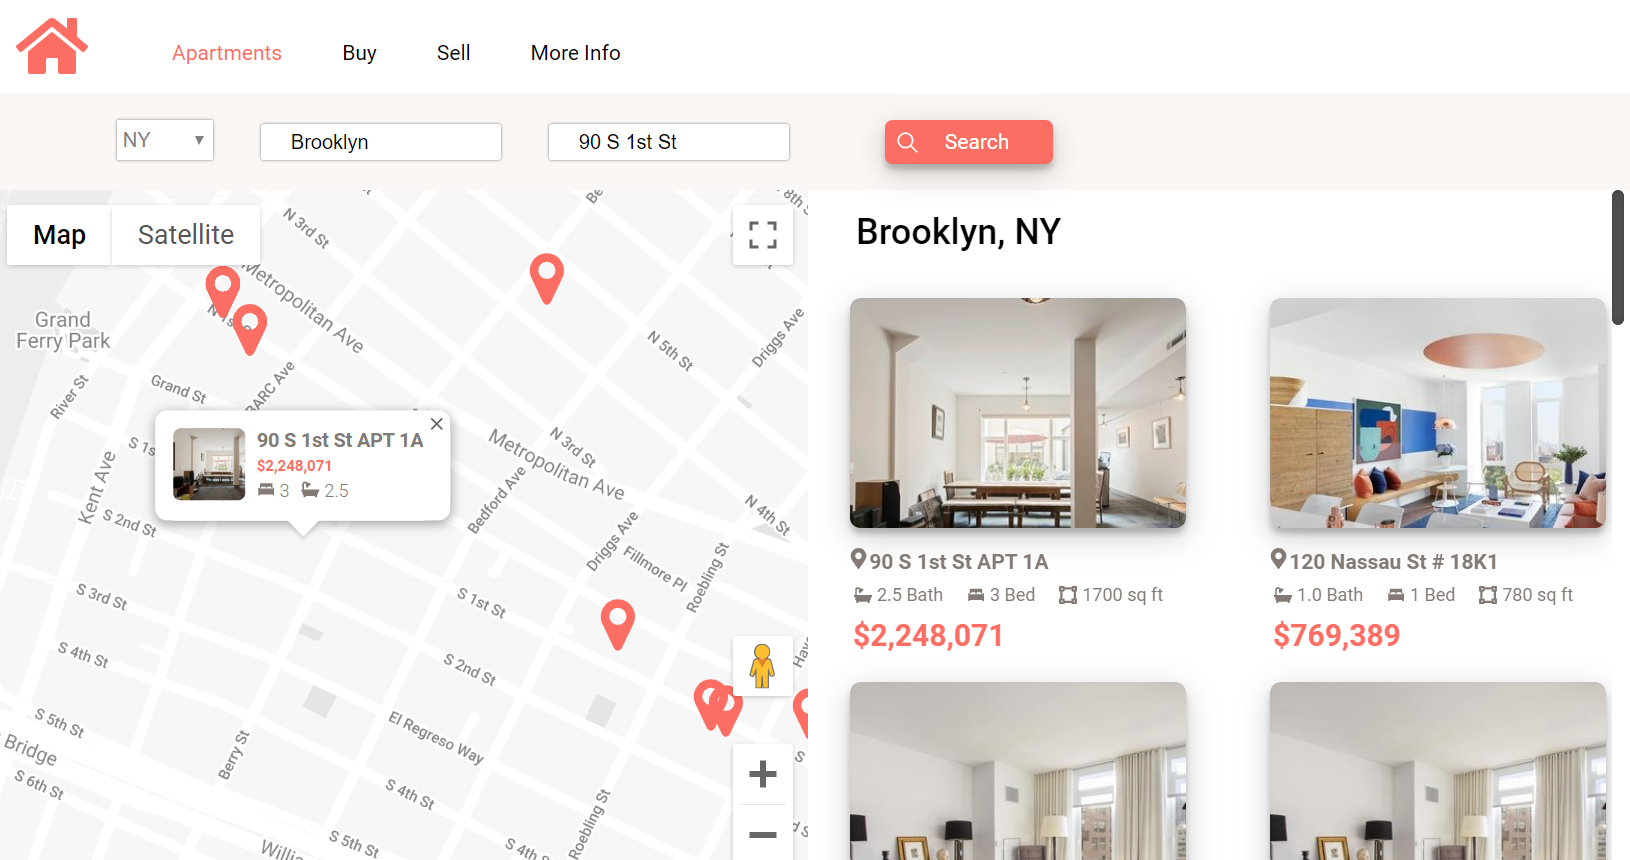
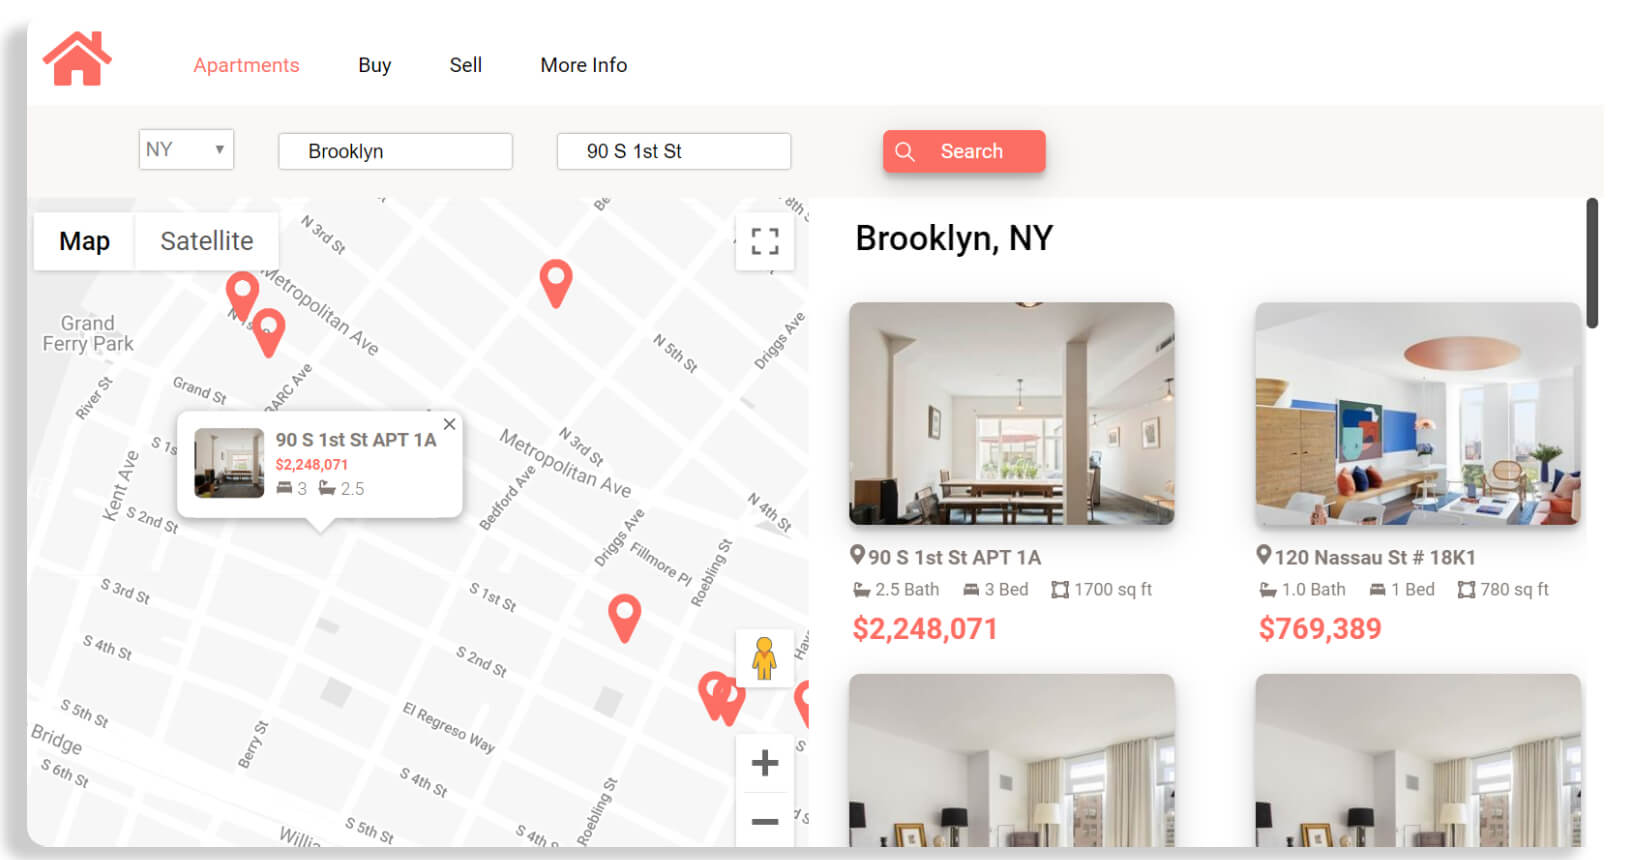
read me

diff --git a/README.md b/README.md
@@ -34,8 +34,3 @@ npm install
 ## Additional Images
 <img src="./Images/RE2.jpg" id="image" >
 <img src="./Images/RE4.jpg" id="image">
-
-<style>
-#image {border-radius: 10px;
-  box-shadow: 0 4px 8px 0 rgba(0, 0, 0, 0.2), 0 6px 20px 0 rgba(0, 0, 0, 0.19)}
-  </style>
